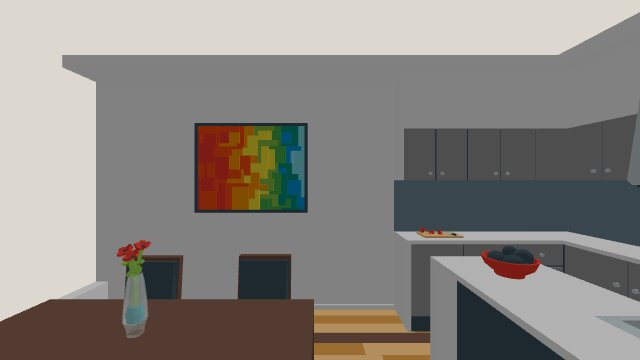
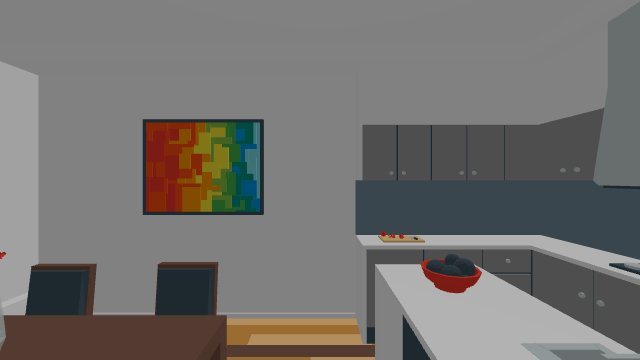
Close the kitchen and move three start points inside their rooms
The kitchen gets a north wall, a west wall and a ceiling; the kitchen,
workshop and lecture theatre start points move at least 0.5 m inside
their bounds, with a manifest test for it. Version 2026100900 so
browsers fetch the new room files.

diff --git a/tests/manifest_test.php b/tests/manifest_test.php
@@ -135,6 +135,34 @@ final class manifest_test extends \advanced_testcase {
     }
 
     /**
+     * Every start point lies at least 0.5 m inside its room's bounds, and every anchor and exit lies inside them.
+     *
+     * The viewer keeps the player 0.3 m inside the bounds, so a start closer to an edge is moved before the first frame.
+     */
+    public function test_start_points_inside_bounds(): void {
+        $margin = 0.5;
+        $epsilon = 1e-9;
+        foreach ($this->rooms() as $id => $room) {
+            $min = $room['bounds']['min'];
+            $max = $room['bounds']['max'];
+            [$x, , $z] = $room['start']['position'];
+            $edge = min($x - $min[0], $max[0] - $x, $z - $min[2], $max[2] - $z);
+            $message = "Room {$id}: the start point is only {$edge} m inside the bounds (at least {$margin} m needed).";
+            $this->assertGreaterThanOrEqual($margin - $epsilon, $edge, $message);
+            $places = $room['anchors'];
+            if (isset($room['exit'])) {
+                $places[] = $room['exit'];
+            }
+            foreach ($places as $n => $place) {
+                [$px, , $pz] = $place['position'];
+                $inside = $px >= $min[0] - $epsilon && $px <= $max[0] + $epsilon
+                    && $pz >= $min[2] - $epsilon && $pz <= $max[2] + $epsilon;
+                $this->assertTrue($inside, "Room {$id}: place {$n} ({$px}, {$pz}) is outside the bounds.");
+            }
+        }
+    }
+
+    /**
      * Small rooms have 2 to 20 station places and smaller station areas; the kitchen and workshop are small.
      */
     public function test_small_rooms(): void {

diff --git a/version.php b/version.php
@@ -25,7 +25,7 @@
 defined('MOODLE_INTERNAL') || die();
 
 $plugin->component = 'vrroomenv_rooms';
-$plugin->version = 2026100801;
+$plugin->version = 2026100900;
 $plugin->release = '0.1.0';
 $plugin->maturity = MATURITY_ALPHA;
 // Moodle 5.2.0 (the v5.2.0 tag's public/version.php: 2026042000.00).

diff --git a/README.md b/README.md
@@ -82,7 +82,7 @@ One row per room, sorted by room id. The first column is the room id (the folder
 | `classroom` | "classroom" by Jonathan Granskog. Credit shown: classroom by Jonathan Granskog [CC-BY] (https://creativecommons.org/licenses/by/3.0/) via Poly Pizza (https://poly.pizza/m/2BTjD6QAdt); scaled, room enlarged and furniture rearranged, two desks duplicated, projector and one window removed | [CC-BY-3.0](LICENSES/CC-BY-3.0.txt) | https://poly.pizza/m/2BTjD6QAdt (Poly Pizza model 2BTjD6QAdt, downloaded 2026-10-08 (obj2gltf export)) | Scaled x0.92 (desk tops 0.75 m, seats 0.5 m) with the floor top at y = 0. Layout (SP/roompack/layouts/classroom.json, applied by TOOLS/rooms2/layout.mjs): the untextured floor slab and four box walls stretched to a 12 x 9 m interior (the source is 8.7 x 5.9 m, too small for 4 non-overlapping 3 x 3 m station zones among six desks); the furniture moved, not scaled: 8 desk-and-chair sets (2 duplicated) in four rows of two facing the whiteboard, teacher desk with computer at the front, whiteboard centred on the front wall, bookshelf with the picture above it on the back wall, door between two stations, three windows spread on the side wall, ceiling lights spread over the larger ceiling; fourth window and the ceiling projector removed (the projector carries a brand-like text label of unclear origin). No ceiling in the source: the sky colour #e6e4de stands in for it. |
 | `forest-camp` | "Low Poly Forest Scene" by nurbix_studioz. Credit shown: Low Poly Forest Scene by nurbix_studioz [CC-BY] (https://creativecommons.org/licenses/by/3.0/) via Poly Pizza (https://poly.pizza/m/2ZRBoN2Fyb). Changed: scaled x3, trees copied along the edges. | [CC-BY-3.0](LICENSES/CC-BY-3.0.txt) | https://poly.pizza/m/2ZRBoN2Fyb (Poly Pizza model 2ZRBoN2Fyb, downloaded 2026-10-08; sha256 5505fd3eba8cdb28) | Scaled x3 to metres; 15 copies of the scene's own trees and bushes added along the east, north and south edges of the camp bank as an edge boundary (layout forest-camp.json); one copy that blocked the start view replaced by a bush. |
 | `house` | "House interior" by Gabriele Romagnoli. Credit shown: House interior by Gabriele Romagnoli [CC-BY] (https://creativecommons.org/licenses/by/3.0/) via Poly Pizza (https://poly.pizza/m/AQQ2g0YE2D). Scaled to metres and meshes merged. | [CC-BY-3.0](LICENSES/CC-BY-3.0.txt) | https://poly.pizza/m/AQQ2g0YE2D (Poly Pizza download 2026-10-08 (sha256 6998000ac0cd)) | Scaled x2.5 to metres (walls 2.5 m, doors about 2 m); floor moved to y = 0; 278 meshes joined into 11; no textures in the source, nothing removed (no logos or signs found). |
-| `kitchen` | "Cozy Kitchen" by Lachlan Sleight. Credit shown: Cozy Kitchen by Lachlan Sleight [CC-BY] (https://creativecommons.org/licenses/by/3.0/) via Poly Pizza (https://poly.pizza/m/6bOTntCJyyK). Scaled to metres. | [CC-BY-3.0](LICENSES/CC-BY-3.0.txt) | https://poly.pizza/m/6bOTntCJyyK (Poly Pizza model 6bOTntCJyyK, downloaded 2026-10-08 (sha256 4d808a53f73e)) | Scaled x1.9 (counter tops 0.97 m, seats 0.45 m, ceiling about 2.9 m) with the floor at y = 0; geometry otherwise unchanged (the source is one merged mesh); no textures in the source, nothing removed (no logos or signs found). The scene has walls on two sides only; the sky colour stands in for the open sides. |
+| `kitchen` | "Cozy Kitchen" by Lachlan Sleight. Credit shown: Cozy Kitchen by Lachlan Sleight [CC-BY] (https://creativecommons.org/licenses/by/3.0/) via Poly Pizza (https://poly.pizza/m/6bOTntCJyyK). Scaled to metres; a north wall, a west wall and a ceiling added. | [CC-BY-3.0](LICENSES/CC-BY-3.0.txt) | https://poly.pizza/m/6bOTntCJyyK (Poly Pizza model 6bOTntCJyyK, downloaded 2026-10-08 (sha256 4d808a53f73e)) | Scaled x1.9 (counter tops 0.97 m, seats 0.45 m, ceiling about 2.9 m) with the floor at y = 0; the source is one merged mesh with walls on two sides only, so a plain north wall, west wall and ceiling (3 boxes in the room's own wall material) were added; no textures in the source, nothing removed (no logos or signs found). |
 | `lake` | "Surrounded Lake" by Hubs Team (Mozilla Hubs). Credit shown: "Surrounded Lake" by Hubs Team (Mozilla Hubs), from github.com/Hubs-Foundation/hubs-blender-files, CC0 1.0; navmesh, collision mesh and spawn points removed, textures recompressed | [CC0-1.0](LICENSES/CC0-1.0.txt) | https://github.com/Hubs-Foundation/hubs-blender-files (Hubs scene UNzm1IH (Mozilla Spoke 1.0.0.20200110004939 export)) | Hubs helpers removed by room-tool (navMesh, trimesh, 4 spawn points); the navmesh kept only as a work file (SP/roompack/work/lake/navmesh.glb), not shipped; lifted 0.1 m so the water surface you walk on is y = 0; the unreadable Terrain_BaseColor JPEG re-encoded losslessly first; textures WebP (1024 px, unchanged size). |
 | `lecture-theatre` | "Theatre V0.1" by Cormac White. Credit shown: Theatre V0.1 by Cormac White [CC-BY] (https://creativecommons.org/licenses/by/3.0/) via Poly Pizza (https://poly.pizza/m/8jExwEzwPAe); scaled, side curtains moved, wall lettering removed | [CC-BY-3.0](LICENSES/CC-BY-3.0.txt) | https://poly.pizza/m/8jExwEzwPAe (Poly Pizza model 8jExwEzwPAe, downloaded 2026-10-08 (obj2gltf export)) | Scaled x2.3 with the stage top at y = 0 (the walking level is the stage). Layout (SP/roompack/layouts/lecture-theatre.json): the two gathered side curtains (13 nodes each side) moved 1.1 m outwards so they tuck behind the proscenium pillars and leave the front of the stage clear for a row of stations; white 3D cursive lettering on the stage-right wing wall (9 nodes, about 5,450 triangles) removed as text of unclear origin. 515 source nodes joined into 11 meshes by room-tool. |
 | `library` | "Library (assembled from Building Kit and Furniture Kit)" by Kenney; parts: "Building Kit 1.0" by Kenney (www.kenney.nl) (CC0-1.0); "Furniture Kit 2.0" by Kenney (www.kenney.nl) (CC0-1.0). Credit shown: Building Kit and Furniture Kit by Kenney (www.kenney.nl), CC0 (credit optional). Assembled into a room for VR room. | [CC0-1.0](LICENSES/CC0-1.0.txt) | https://kenney.nl/assets/furniture-kit (Building Kit 1.0 (2025-03-29); Furniture Kit 2.0 (2018-10-20)) | Assembled from kit pieces (layout roompack/layouts/library.json): 16 x 12 m reading room, 2.4 m ceiling; furniture scaled x2.1; walls, floor and ceiling tinted; kit animations removed; textures WebP. |

diff --git a/changelog.md b/changelog.md
@@ -18,6 +18,15 @@ All notable changes to this plugin are documented here. The format follows
 - PHPUnit test of the pack's manifest, files, strings, credits, licence texts and small rooms.
 - GitHub Actions workflow (Moodle 5.3; PHP 8.3 + MariaDB 11.4, PHP 8.4 + PostgreSQL 17), installing
   `mod_vrroom` first.
+- `tests/manifest_test.php`: every start point is at least 0.5 m inside its room's bounds, and every
+  anchor and exit is inside them.
+
+### Changed
+
+- `kitchen`: a north wall, a west wall and a ceiling added (the source has walls on two sides only);
+  start moved to (-1.8, 0.3). `workshop` start moved to (1.45, 0.62), facing 65, inside the 0.3 m
+  walking margin and away from the first station; `lecture-theatre` start x 8.6 to 8.5.
+  `$plugin->version` 2026100900 so browsers fetch the new files.
 
 ### Removed
 

diff --git a/CHANGES.md b/CHANGES.md
@@ -14,3 +14,5 @@
 - Rooms from Mozilla Hubs keep their baked lighting.
 - Requires `mod_vrroom` 2026100804 or later (the version that supports small rooms).
 - GitHub Actions CI on Moodle 5.3.
+- The kitchen has walls on all sides and a ceiling; the kitchen, workshop and lecture theatre start
+  points moved further inside their rooms.
